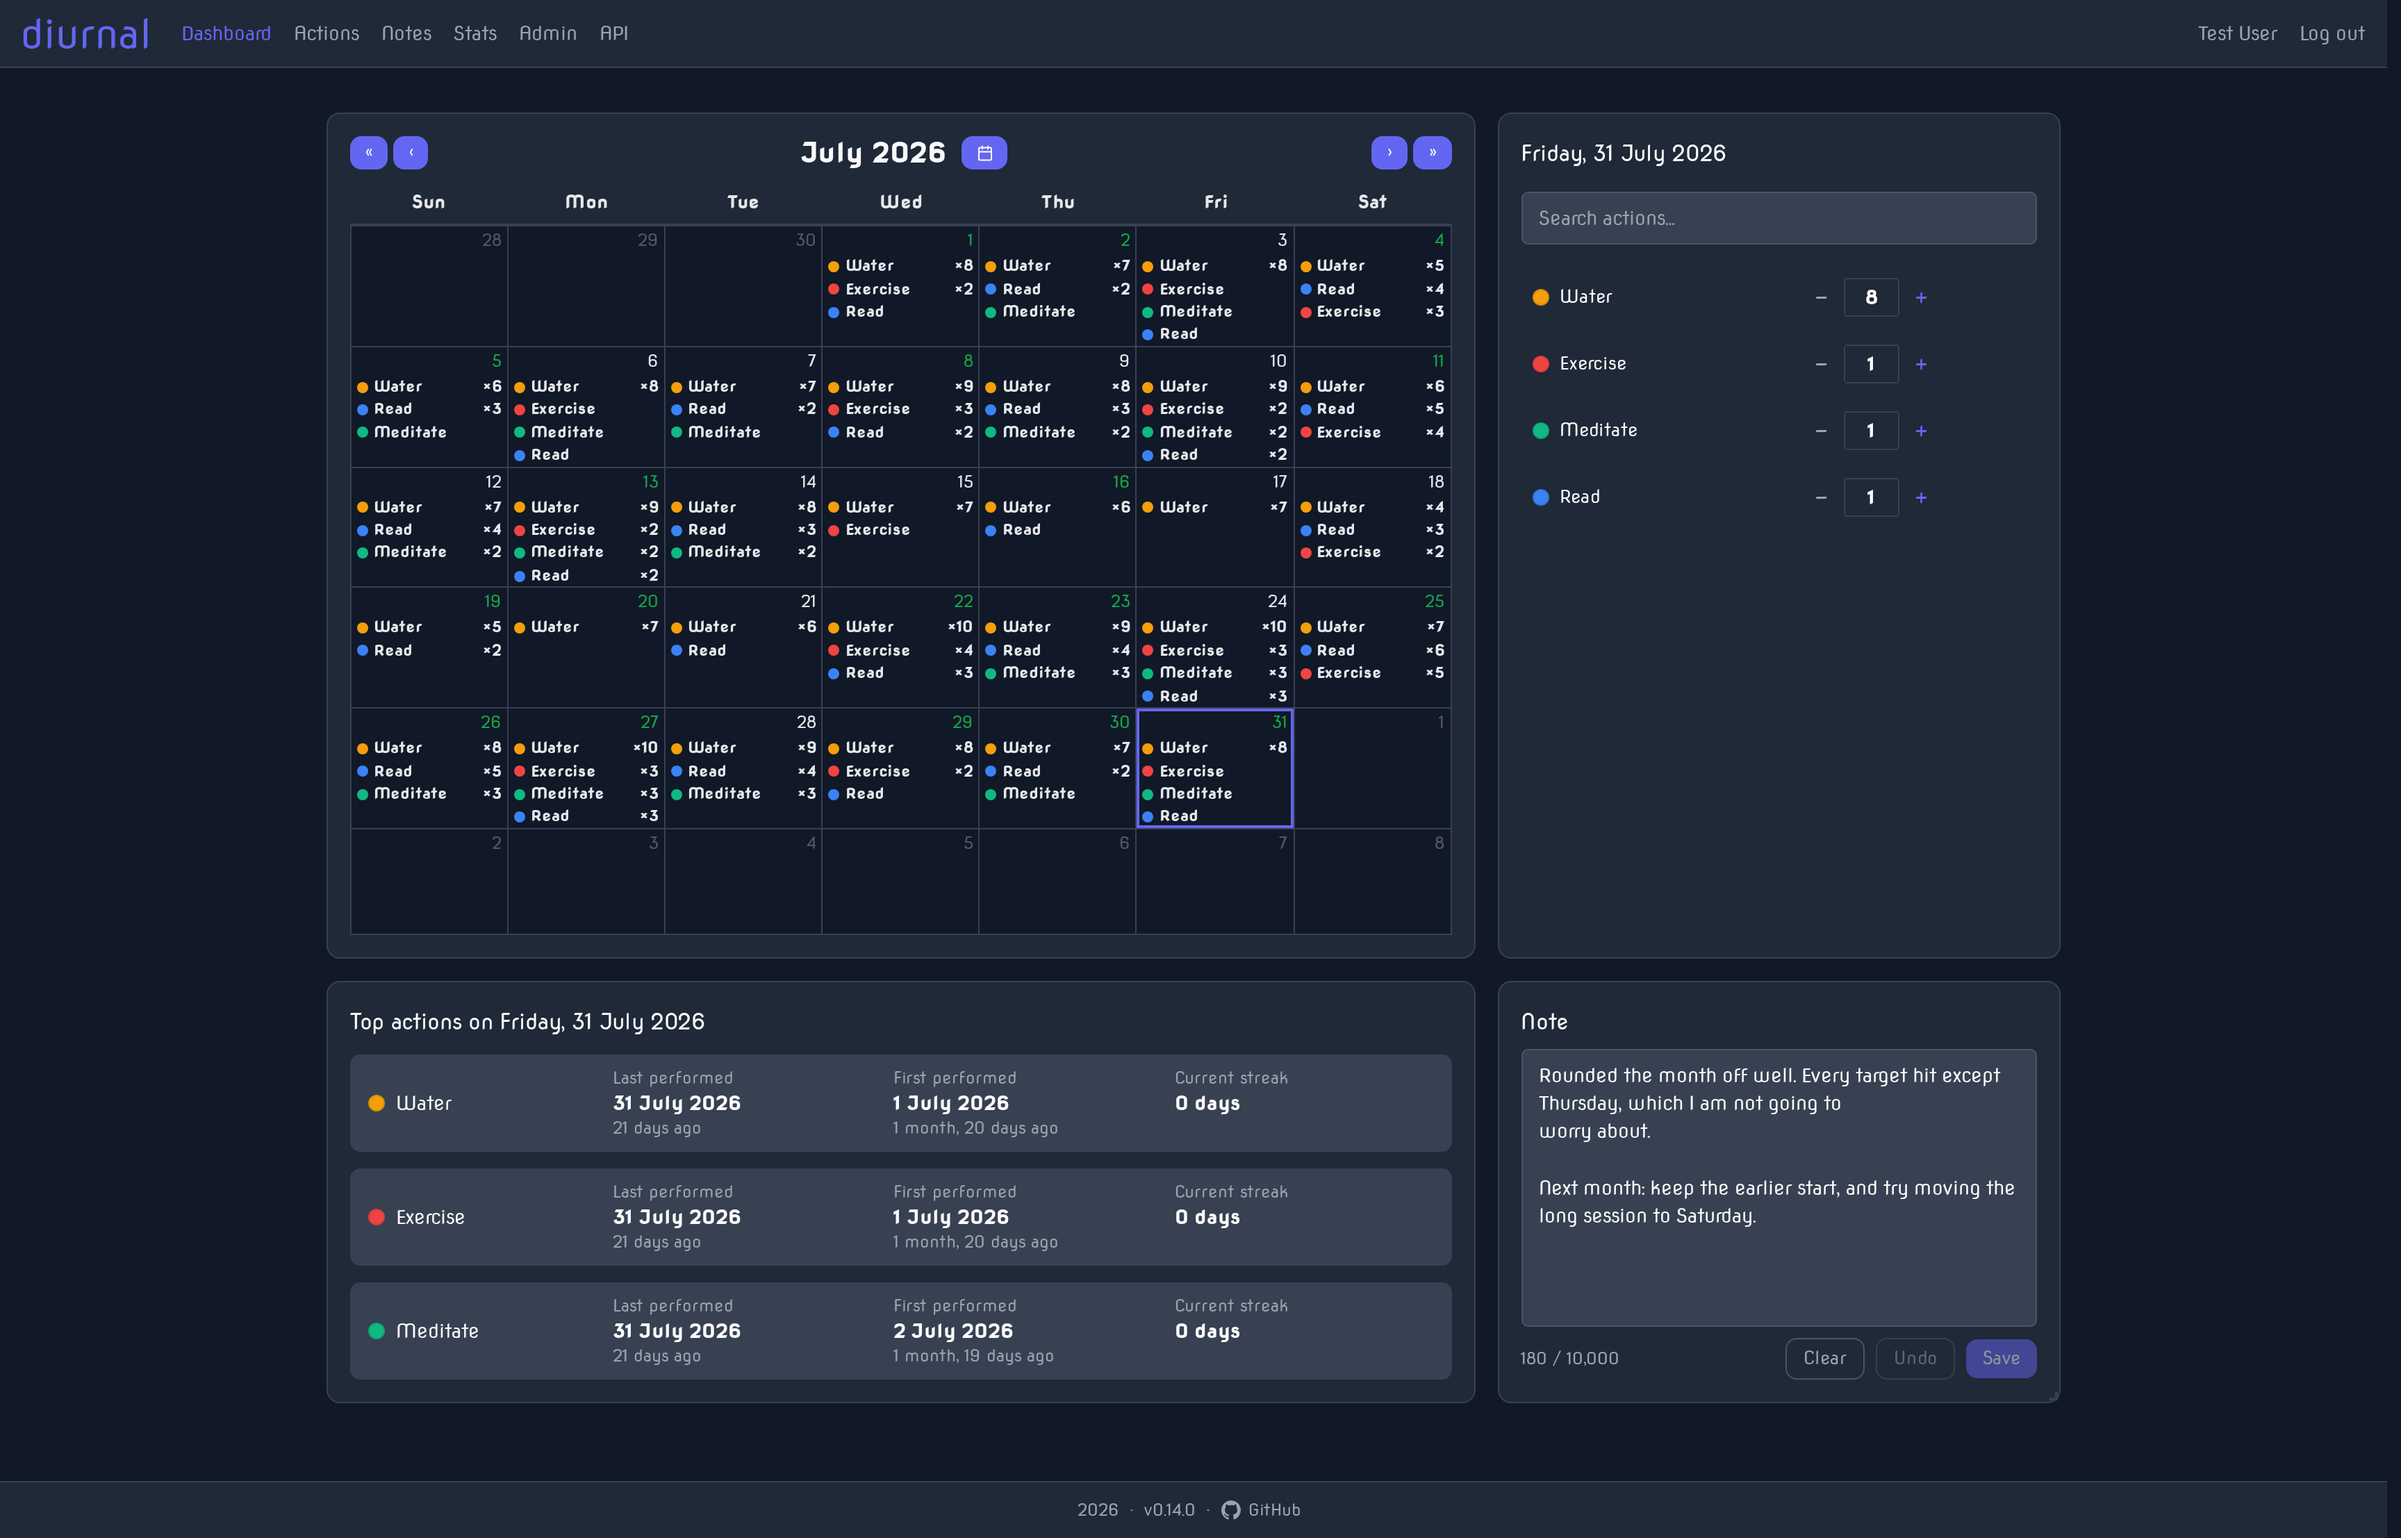
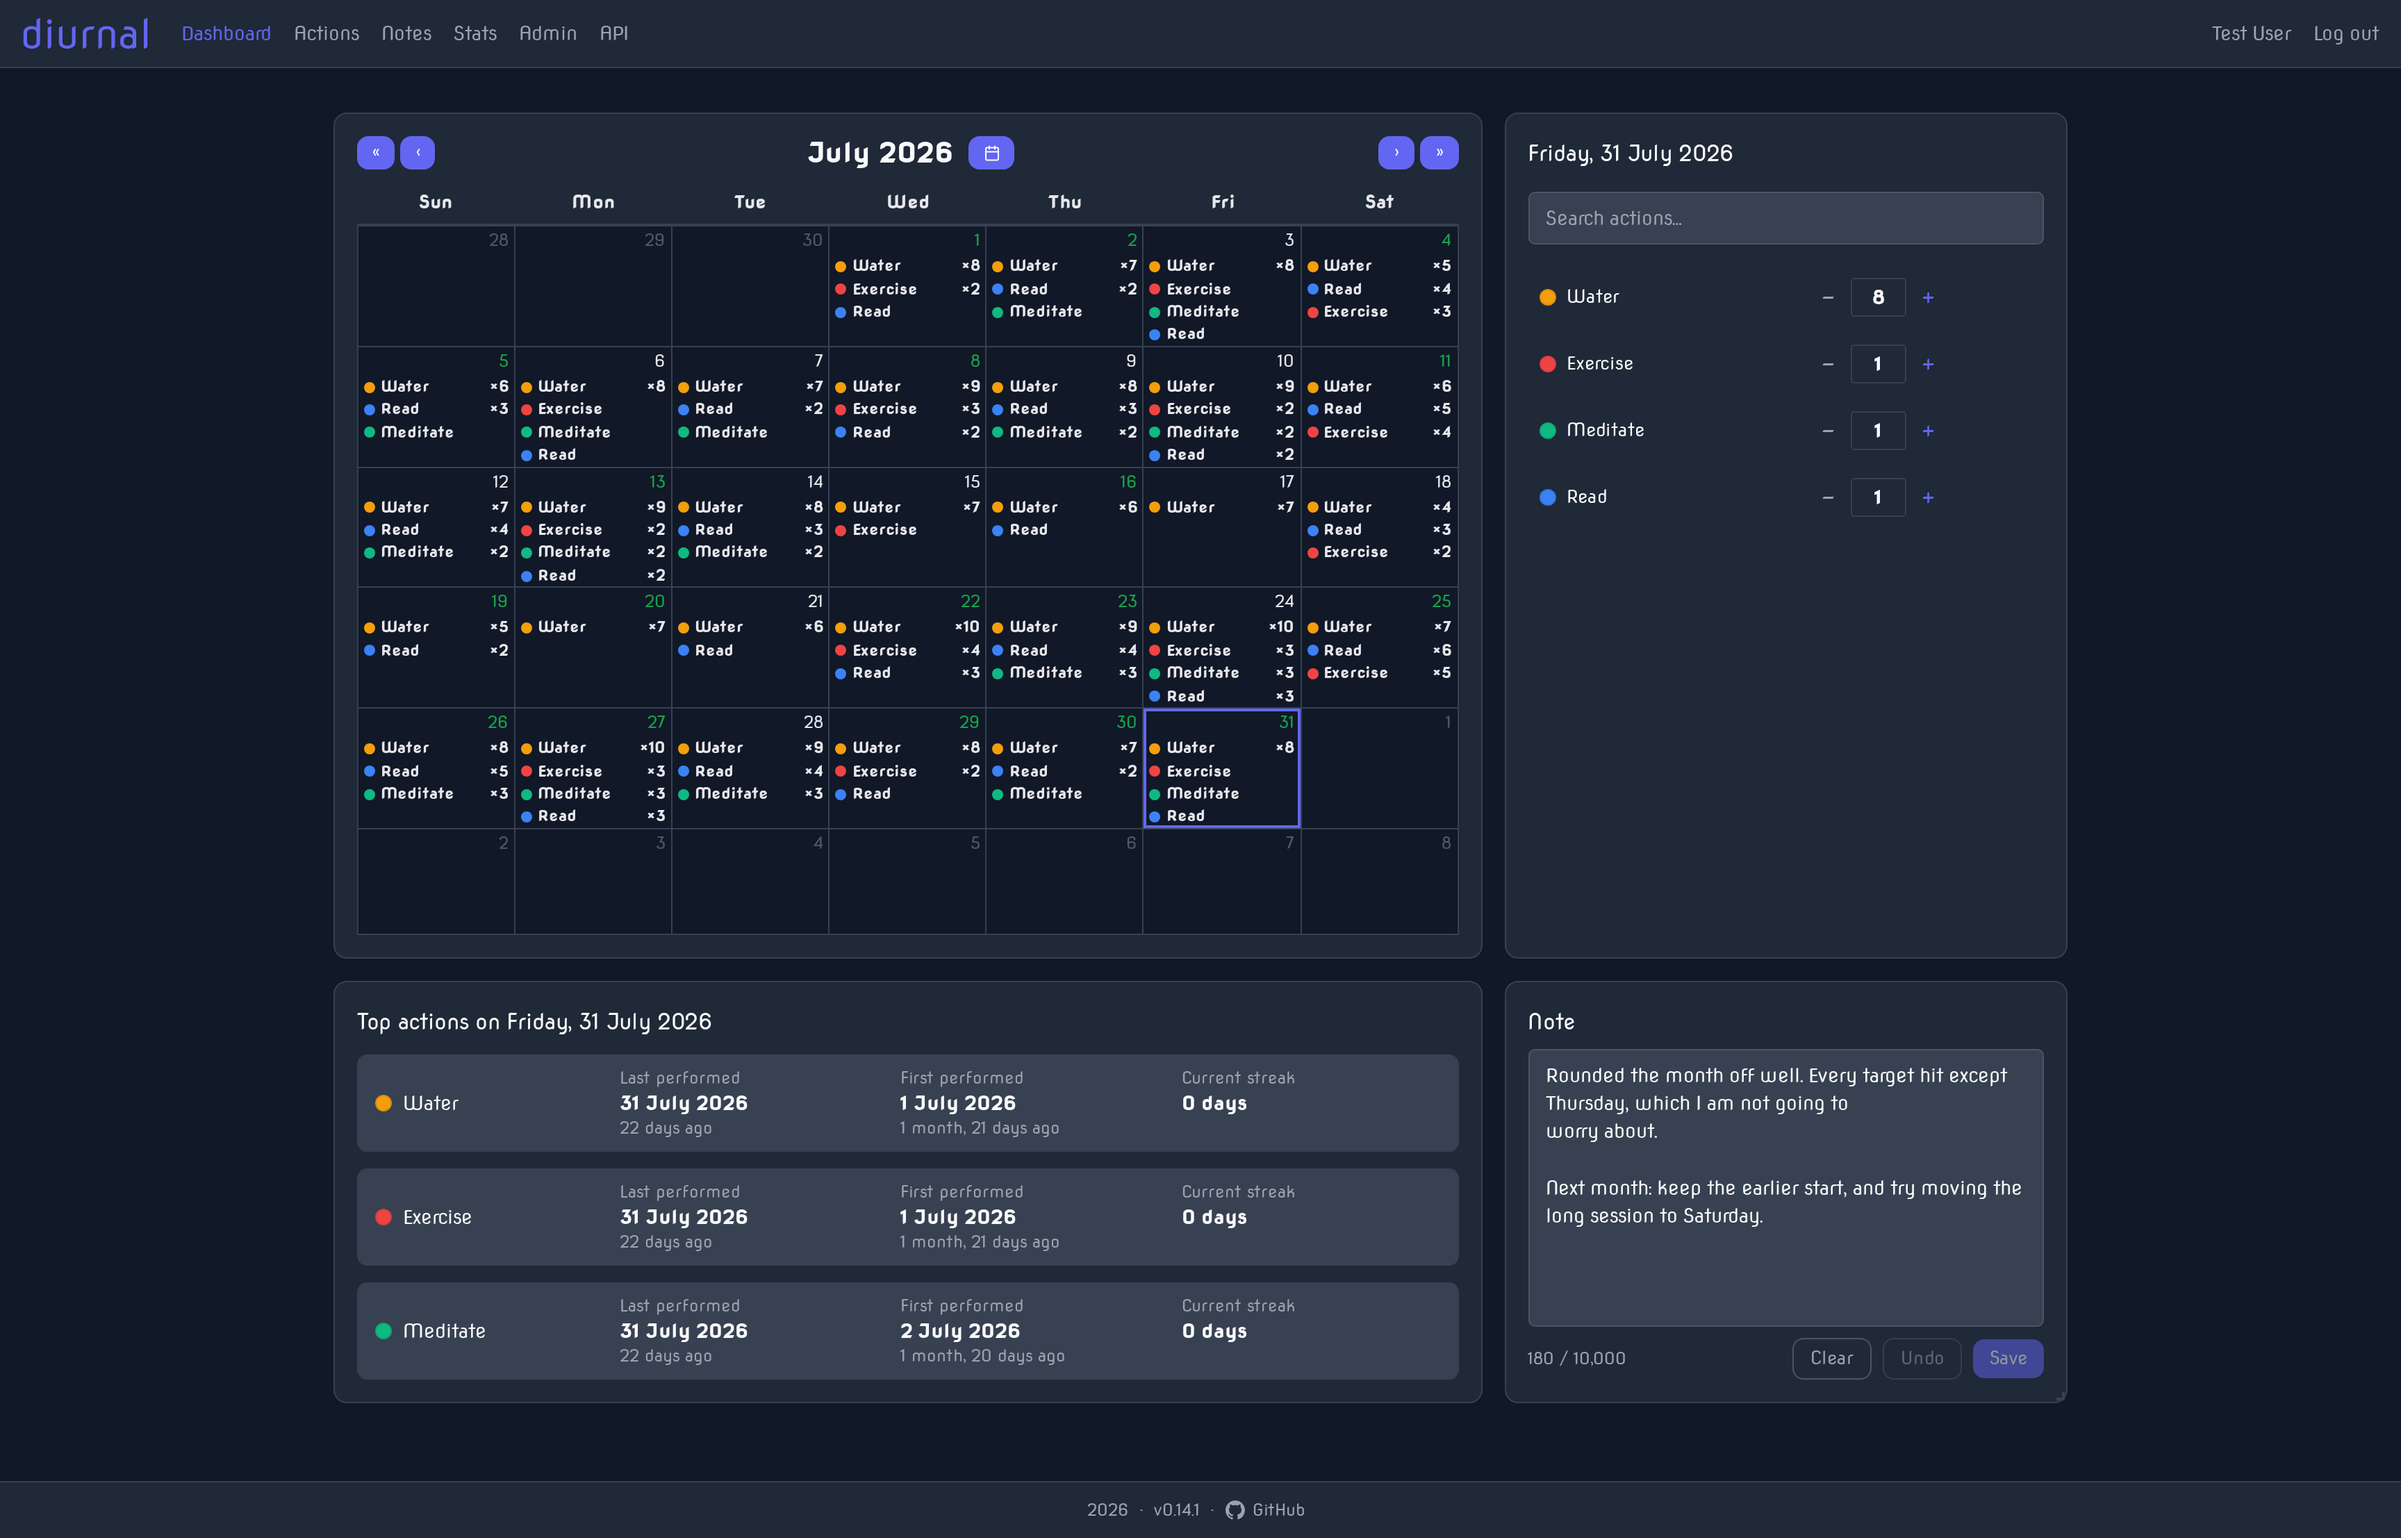
[UI] Expanding navbar/footer to edge of screen when scrollbar not shown

diff --git a/frontend/css/app.css b/frontend/css/app.css
@@ -410,13 +410,21 @@
    * transparent track so it blends into whatever surface it sits on (page canvas, cards, the
    * Settings panels). Declared on `html` so the standard `scrollbar-*` properties inherit to every
    * scroll container; the `::-webkit-scrollbar` block is global for Blink/WebKit, which ignore the
-   * standard properties. `scrollbar-gutter: stable` reserves the track so content doesn't shift
-   * when a scrollbar appears/disappears.
+   * standard properties.
+   *
+   * Deliberately NO `scrollbar-gutter: stable` on the root. It reserves the 12px track on EVERY page,
+   * scrolling or not, and that reserved band sits inside the root scroll container's padding box — so
+   * the full-bleed navbar and footer (partials/navbar.html, partials/footer.html) stop short of the
+   * window edge and the gutter shows through as a canvas-coloured stripe down the right of both bars.
+   * On a page that fits the viewport there is no scrollbar to justify it, which looks like a rendering
+   * fault. The shift it was buying (content moving by half a scrollbar width when navigating between a
+   * page that scrolls and one that doesn't) is the lesser of the two, and is how browsers behave by
+   * default everywhere else. Note `scrollbar-gutter` does not inherit, so this only ever affected the
+   * root — the app's inner scroll containers (note box, day panel) were never given a gutter.
    */
   html {
     scrollbar-width: thin;
     scrollbar-color: var(--color-text-faint) transparent;
-    scrollbar-gutter: stable;
   }
 
   ::-webkit-scrollbar {
